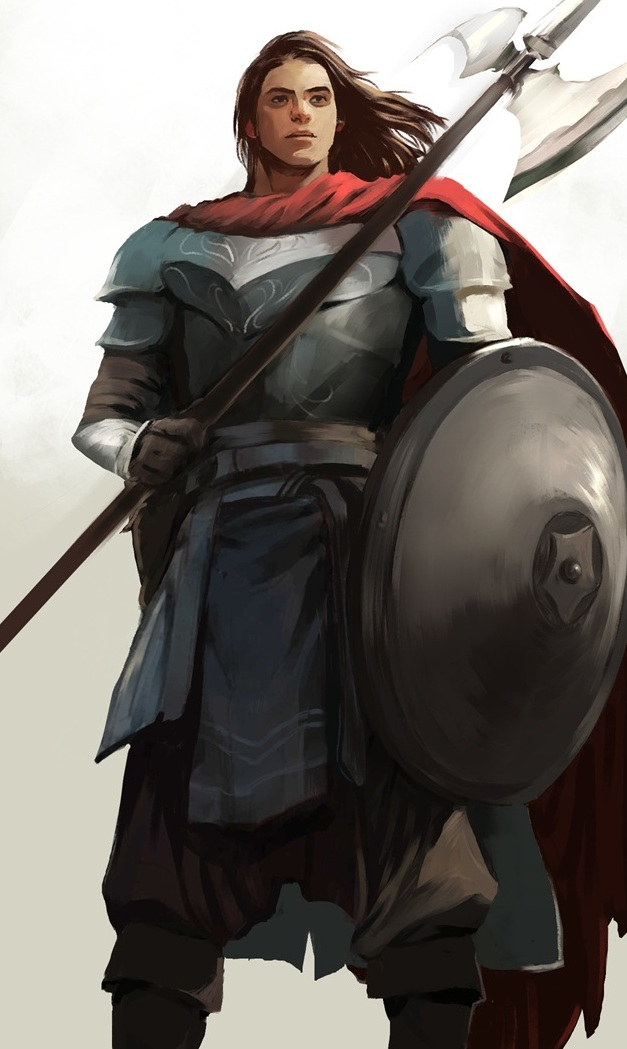
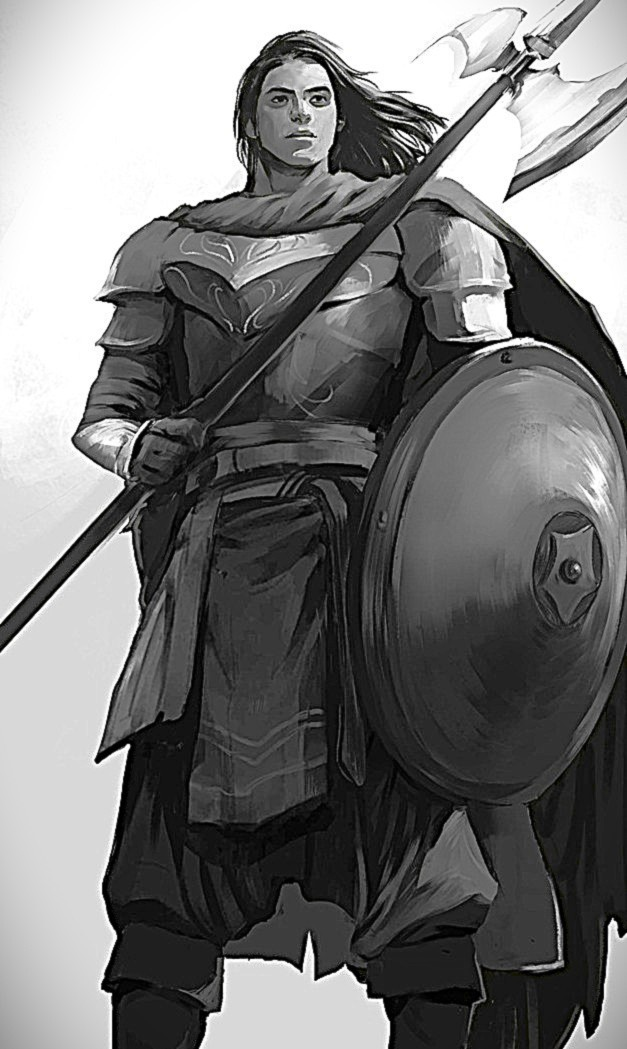
Making enhancements sortable

diff --git a/css/dc20rpg.css b/css/dc20rpg.css
@@ -11356,6 +11356,28 @@
   -ms-flex-pack: end;
   justify-content: end;
 }
+.dc20rpg.item-v13 .item-sheet-section .sub-header .enhancement-heading {
+  display: -webkit-box;
+  display: -ms-flexbox;
+  display: flex;
+  -webkit-box-align: center;
+  -ms-flex-align: center;
+  align-items: center;
+  gap: 8px;
+}
+.dc20rpg.item-v13 .item-sheet-section .sub-header .enhancement-order-buttons {
+  display: -webkit-box;
+  display: -ms-flexbox;
+  display: flex;
+  -webkit-box-orient: vertical;
+  -webkit-box-direction: normal;
+  -ms-flex-direction: column;
+  flex-direction: column;
+  -webkit-box-align: center;
+  -ms-flex-align: center;
+  align-items: center;
+  line-height: 0.7;
+}
 .dc20rpg.item-v13 .item-sheet-section .content-wrapper {
   padding: 10px;
   border: 2px solid var(--border);

diff --git a/scss/components/item/_item.scss b/scss/components/item/_item.scss
@@ -291,6 +291,19 @@
       align-items: center;
       justify-content: end;
     }
+
+    .enhancement-heading {
+      display: flex;
+      align-items: center;
+      gap: 8px;
+    }
+
+    .enhancement-order-buttons {
+      display: flex;
+      flex-direction: column;
+      align-items: center;
+      line-height: 0.7;
+    }
   }
 
   .content-wrapper {